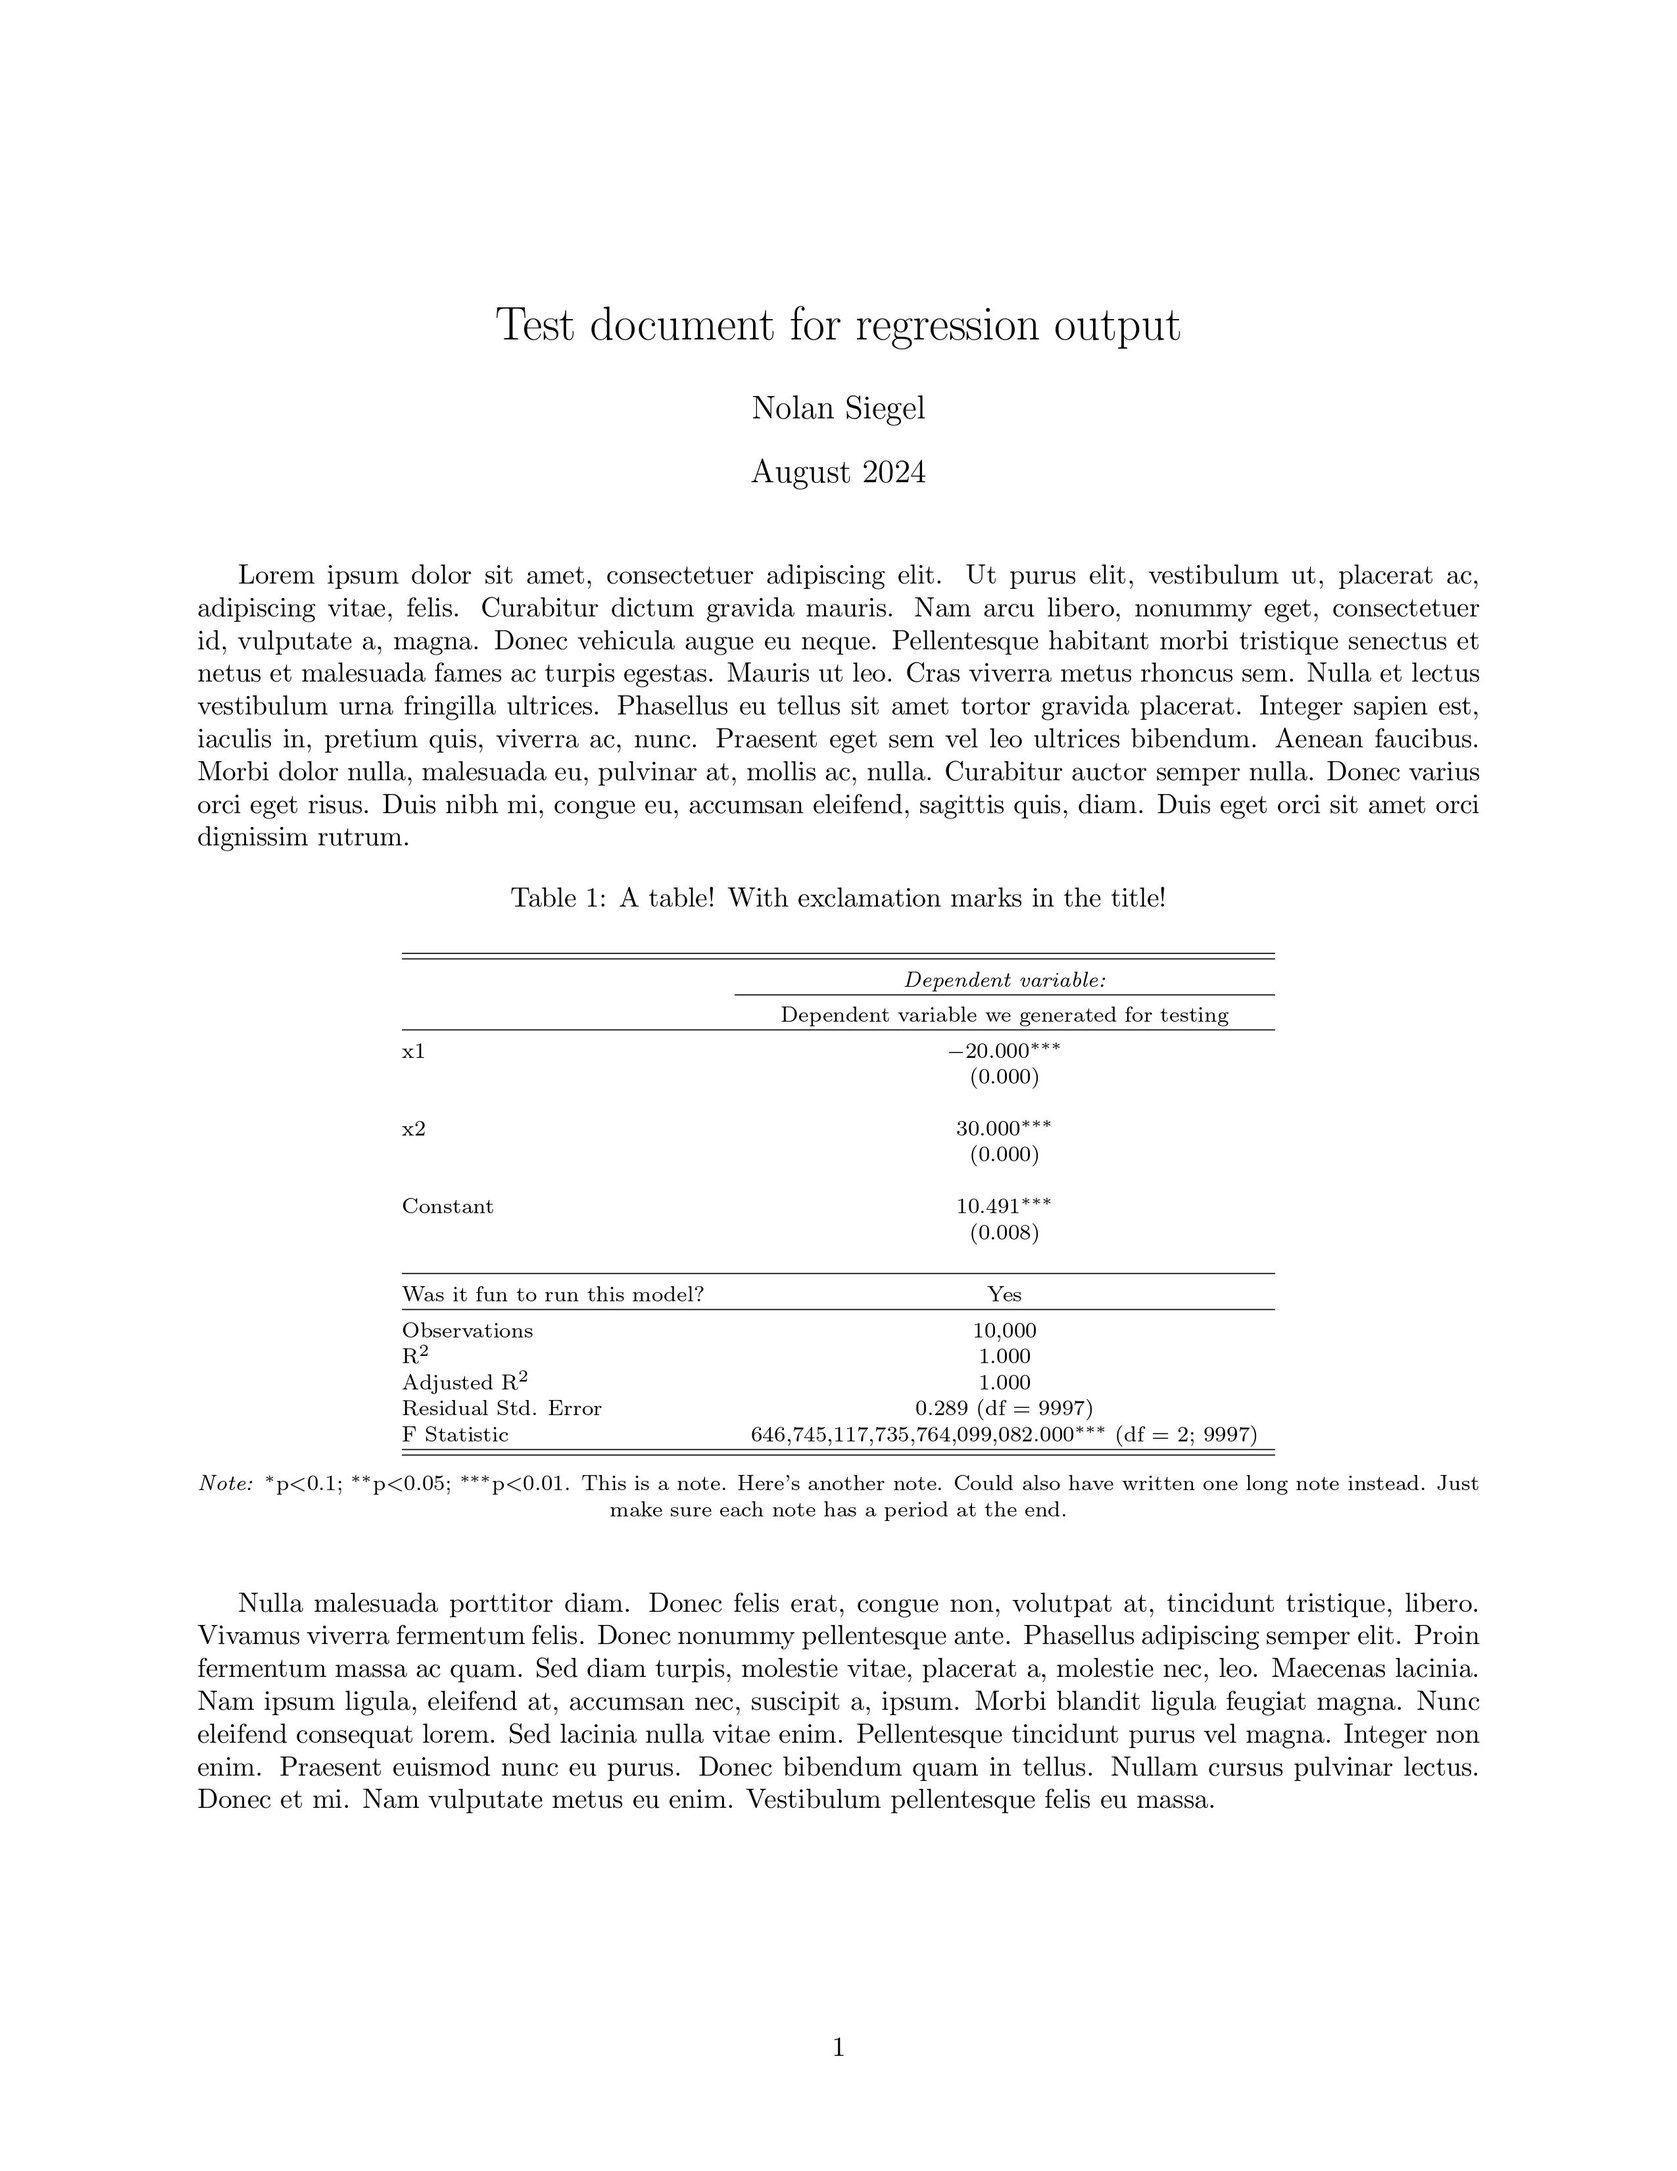
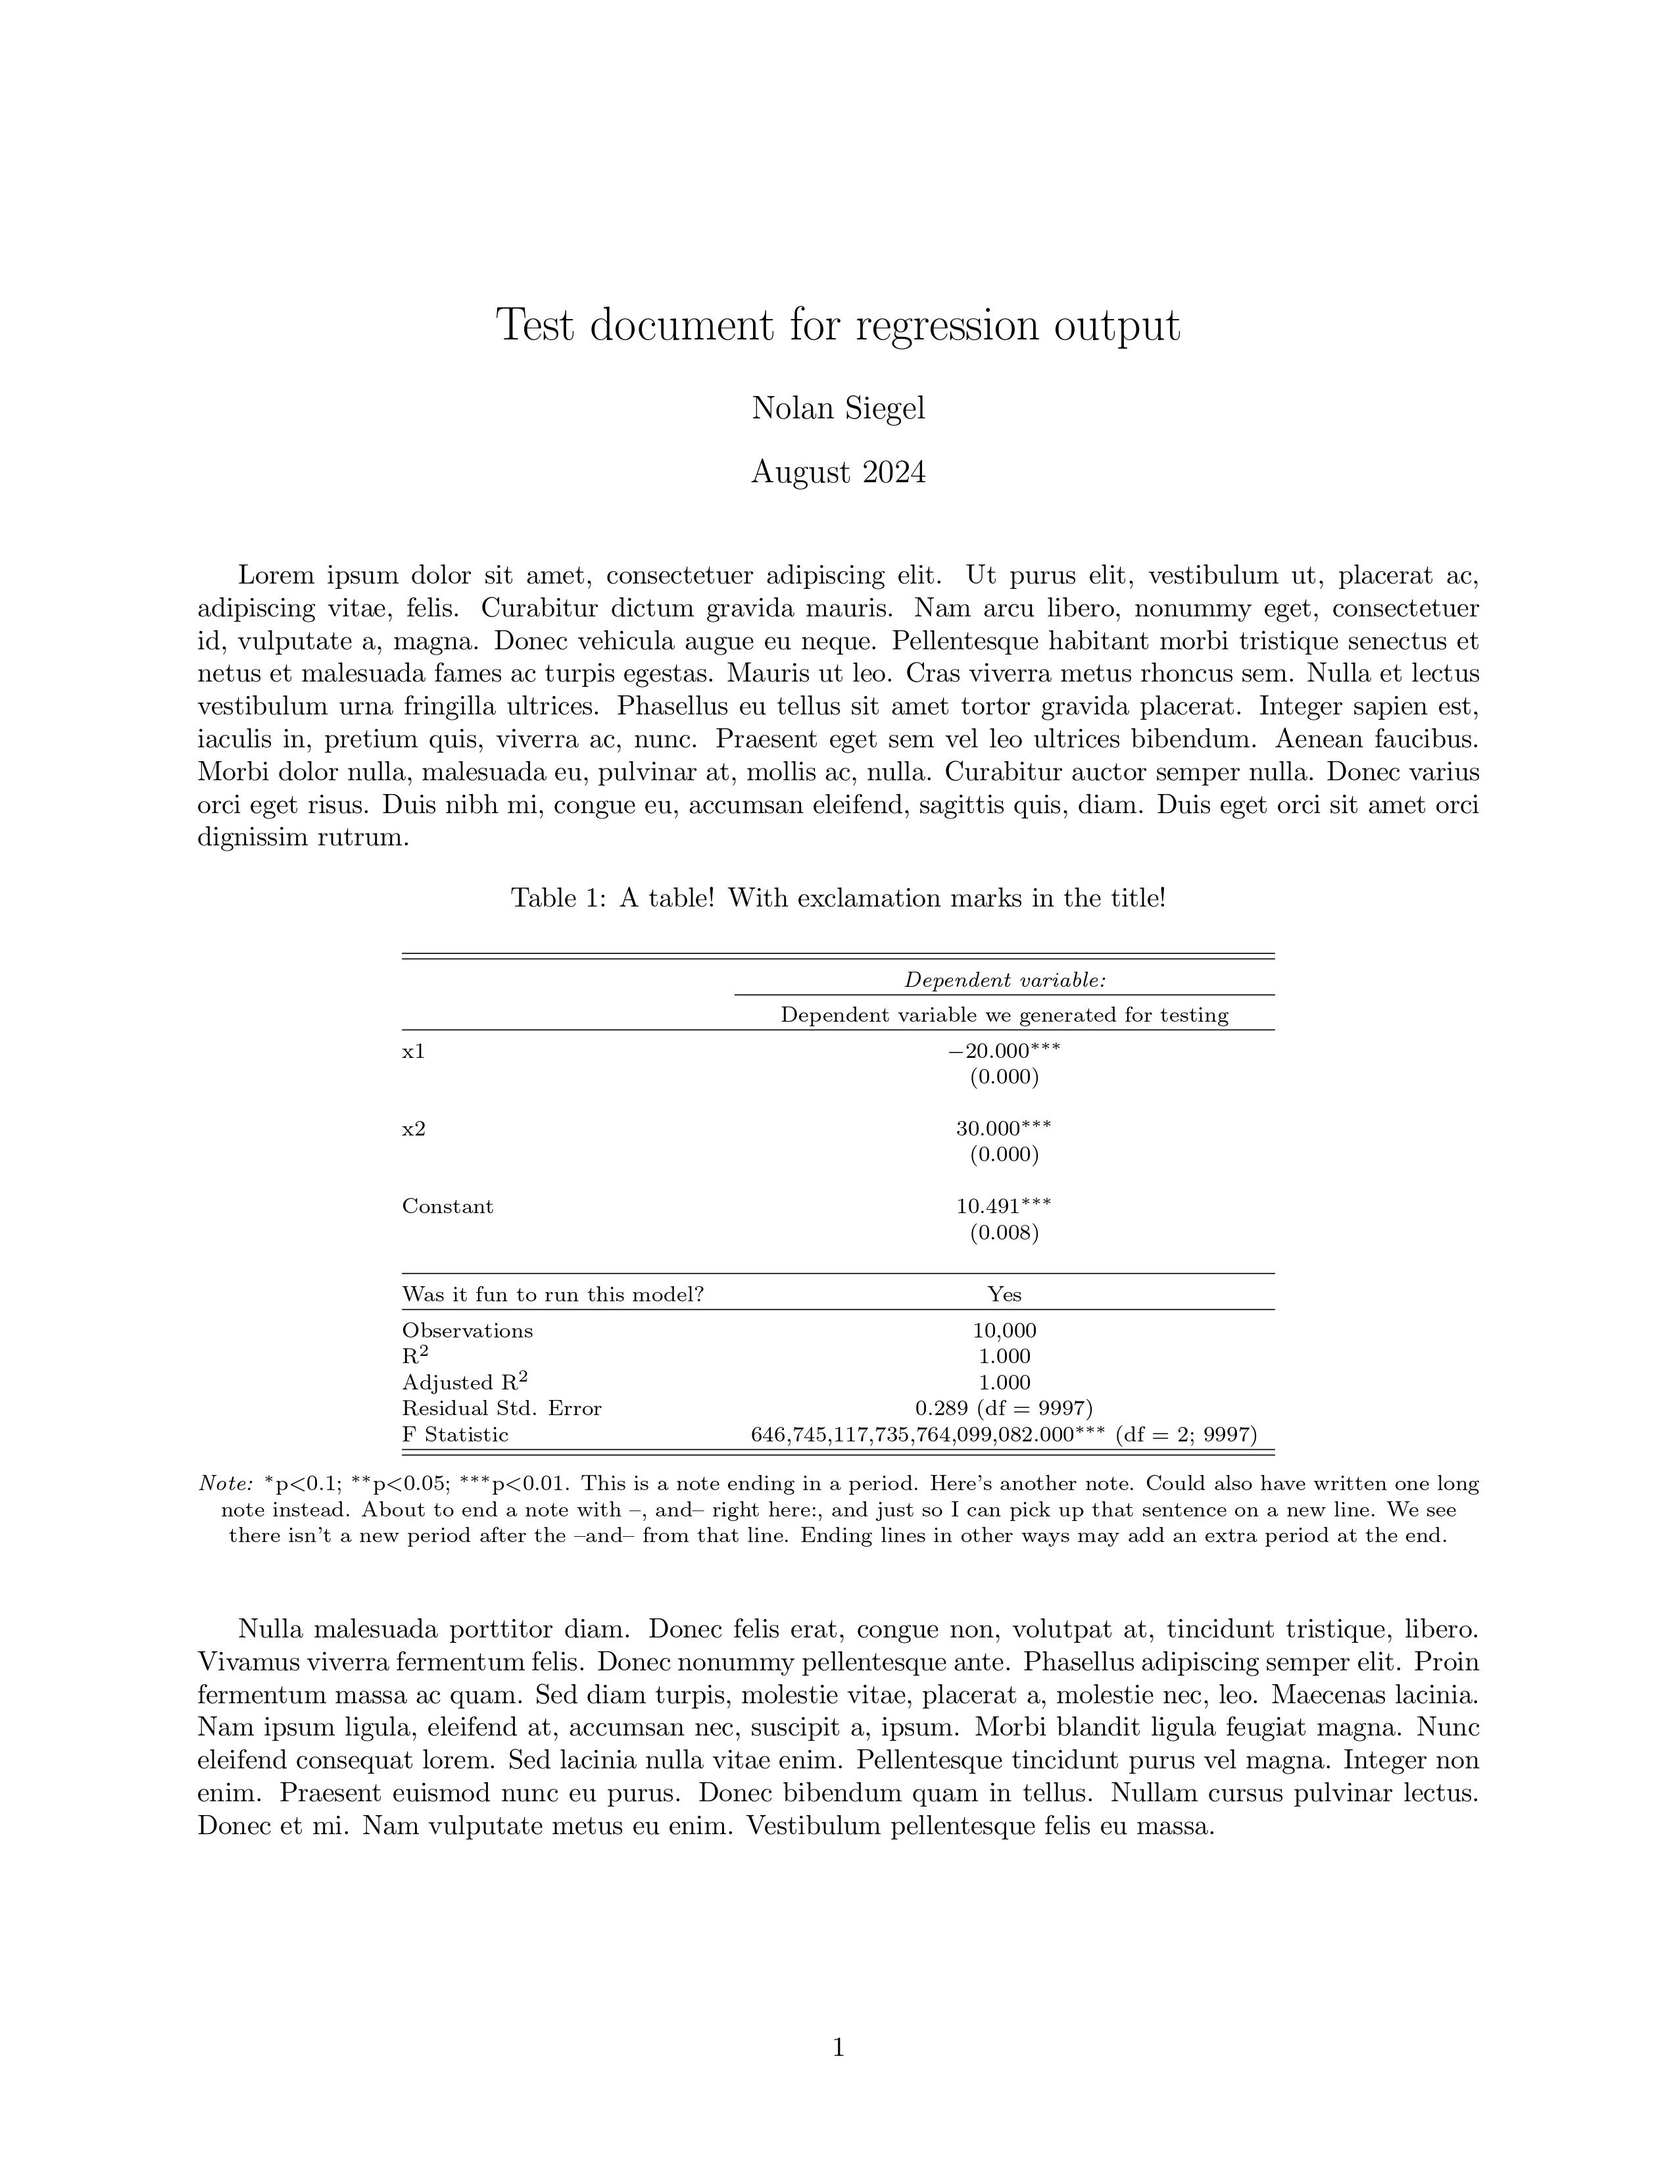
Replace ', and. ' in comment with ', and ' so no unnecessary period

Changed region(s): [[0.1239, 0.6555, 0.8984, 0.8427], [0.1549, 0.6867, 0.1859, 0.7179]]

diff --git a/auxiliaries/example_output.tex b/auxiliaries/example_output.tex
@@ -1,6 +1,6 @@
 % Edits to stargazer::stargazer() table made by photoplate::photoplate() v.0.0.0.9000 by Nolan Siegel, nolan.s.siegel at gmail.com
 % Table created by stargazer v.5.2.3 by Marek Hlavac, Social Policy Institute. E-mail: marek.hlavac at gmail.com
-% Date and time: Sun, Aug 25, 2024 - 2:26:27 AM
+% Date and time: Sun, Aug 25, 2024 - 2:34:35 AM
 \begin{table}[!h] \centering 
   \caption{A table! With exclamation marks in the title!} 
   \label{model_output_label_for_crossref}

diff --git a/README.md b/README.md
@@ -157,7 +157,11 @@ or “out” keyword parameters.
 In general, the photoplate::photoplate() function seems to work best
 when “stargazer_call =” is NOT included in its function call, so best to
 leave that out and simply enter the stargazer::stargazer() call as the
-first parameter without explicitly identifying it as such.
+first parameter without explicitly identifying it as such. Also, you may
+get an extra period in your comment if you end a line in something other
+than a period or –, and– in the case of splitting a compound sentence
+across separate elements in the notes() parameter of
+stargazer::stargazer().
 
 **Note any call to the function makes a .tex file with edits to the the
 regular stargazer::stargazer() LaTeX-formatted output, and the function
